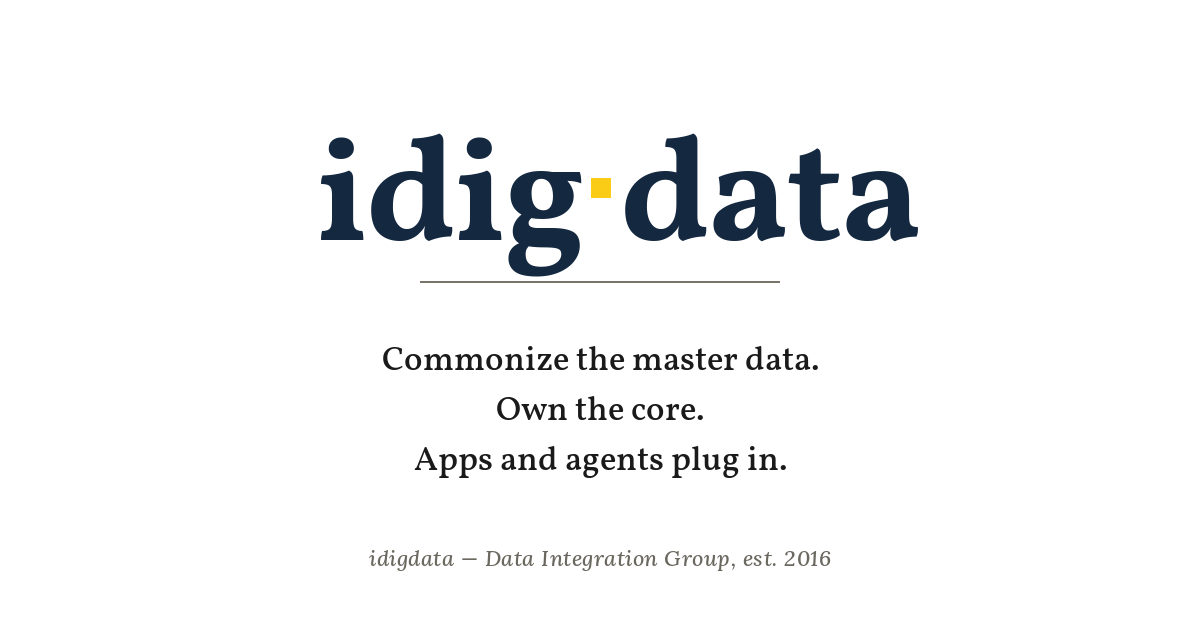
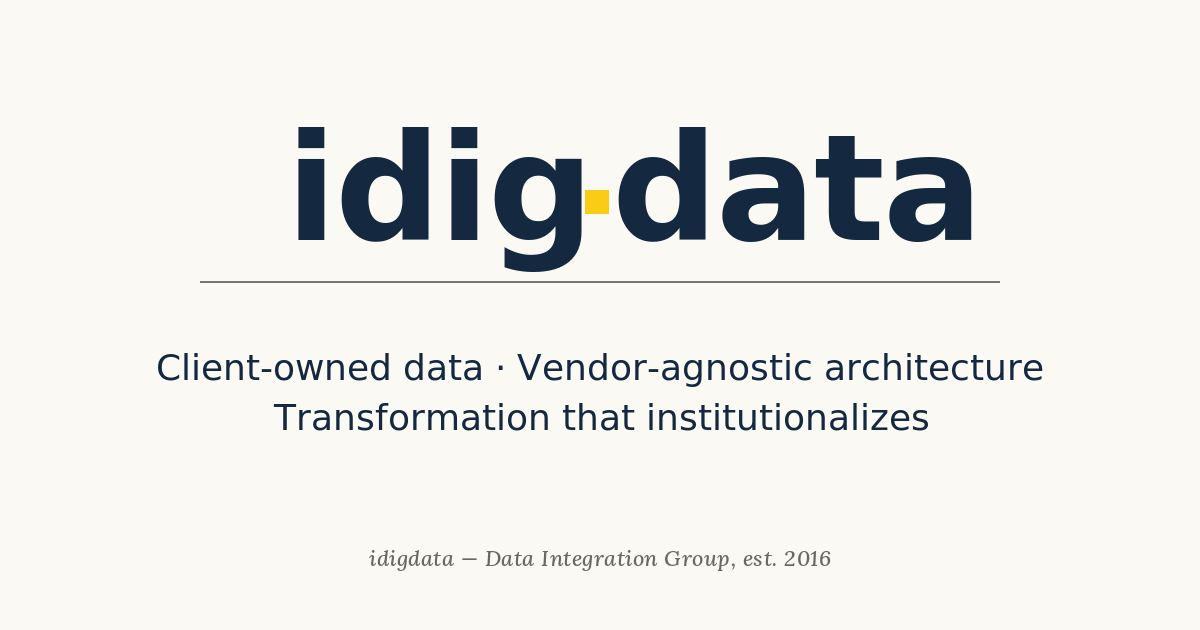
Brand v4.3 sync + wordmark image swap
- Sync v4.3 brand SVGs/PNGs from k2s/idigdata/brand/ to public/
  (connector-dot wordmark geometry; tight 2-3px gaps)
- Replace CSS-text 'idigdata' in SiteHeader with <Image src=/idigdata-wordmark-only.svg>
- Same swap in SiteFooter brand block
- Regenerate og-image.png at v4.3 geometry

Local-only; no deploy.

diff --git a/components/SiteHeader.tsx b/components/SiteHeader.tsx
@@ -1,5 +1,6 @@
 "use client";
 
+import Image from "next/image";
 import Link from "next/link";
 import { usePathname } from "next/navigation";
 
@@ -17,16 +18,15 @@ export default function SiteHeader() {
   return (
     <header className="border-b border-navy/10">
       <div className="mx-auto max-w-content px-6 py-6 flex items-center justify-between">
-        <Link href="/" className="flex items-center gap-2 group" aria-label="idigdata — home">
-          <img
-            src="/idigdata-mark.svg"
-            alt=""
-            aria-hidden
-            className="h-8 w-8"
+        <Link href="/" className="flex items-center group" aria-label="idigdata — home">
+          <Image
+            src="/idigdata-wordmark-only.svg"
+            alt="idigdata"
+            width={155}
+            height={32}
+            priority
+            className="h-8 w-auto"
           />
-          <span className="font-vollkorn font-bold text-navy text-[22px] leading-none tracking-tight">
-            idigdata
-          </span>
         </Link>
         <nav className="font-body text-[15px] text-navy flex items-center gap-2">
           {NAV.map((item, i) => {

diff --git a/components/SiteFooter.tsx b/components/SiteFooter.tsx
@@ -1,3 +1,4 @@
+import Image from "next/image";
 import Link from "next/link";
 
 export default function SiteFooter() {
@@ -65,16 +66,14 @@ export default function SiteFooter() {
 
           {/* Brand mark + tagline */}
           <div>
-            <div className="flex items-center gap-3 mb-3">
-              <img
-                src="/idigdata-mark.svg"
-                alt=""
-                aria-hidden
-                className="h-9 w-9"
+            <div className="flex items-center mb-3">
+              <Image
+                src="/idigdata-wordmark-only.svg"
+                alt="idigdata"
+                width={155}
+                height={32}
+                className="h-7 w-auto"
               />
-              <span className="font-vollkorn font-bold text-navy text-[20px] leading-none tracking-tight">
-                idigdata
-              </span>
             </div>
             <p className="font-display italic text-stone text-[14px] leading-relaxed">
               Client-owned data &middot; Vendor-agnostic architecture &middot;
